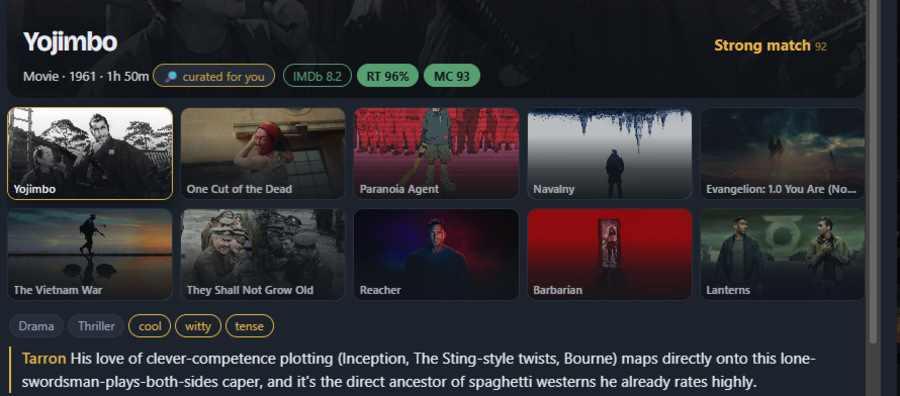
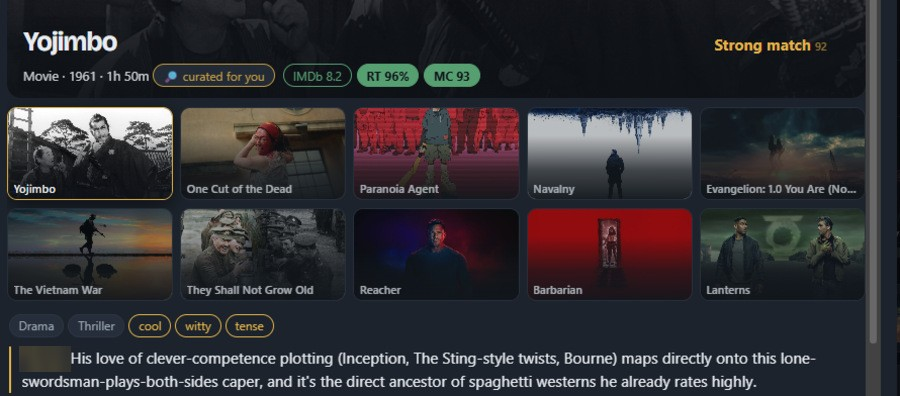
docs(writeup): accuracy fixes, two countries, and the owner's name blurred
Five accuracy fixes from the media-tracker session (four correct its own
brief's drafts, one corrects this session's added sentence):
- "All three models are Anthropic's Claude models" (six rows, three models).
- "Thinking harder did not help" (high minus low is -0.50, 95% range
  -1.01 to +0.01: likely worse, not proven).
- The newer mid-sized model was the best and cheapest line, "though its
  lead over the old one is small enough that chance could explain it"
  (+0.30, range -0.05 to +0.65).
- "I had never measured that" (not "Nobody had ever").
- The paragraph after the measures table: counting logic only, the
  tests are within three percent of the system's size and have been
  catching up all along (less than half in late August); the old "more
  checking than system" had mixed two counting methods.

From the owner (2026-09-29): "six people in two countries" (Antigua
and the US; the sixth joins in December), "some sixteen hundred
messages" kept (it is at least that), and his name blurred on the
recommendation screenshot (tracker-pick.jpg; the other two screenshots
show no account details).

diff --git a/docs/worked-examples/recommender.md b/docs/worked-examples/recommender.md
@@ -16,7 +16,7 @@ That single screen is the most useful thing that happened in this project, and e
 
 ## What I Built, and What I Did Not Do
 
-In August 2026 I built a media tracker for my family. It follows films, television, games and books across six people in four countries, tells you the day the thing you are waiting for actually arrives, and answers the question that ruins more evenings than any other: what should we watch tonight, for whoever happens to be in the room.
+In August 2026 I built a media tracker for my family. It follows films, television, games and books across six people in two countries, tells you the day the thing you are waiting for actually arrives, and answers the question that ruins more evenings than any other: what should we watch tonight, for whoever happens to be in the room.
 
 It has been in real use since August. It costs about seven and a half dollars a month to run, five for the hosting plan and about two and a half for the AI, plus about six cents each time it thinks hard about a recommendation.
 
@@ -35,7 +35,7 @@ I did not write any of it. Not a line. Across some sixteen hundred messages I ne
 | Design and rationale documents | About 7,900 lines, in 16 documents |
 | Lines of code I wrote | Zero |
 
-The row I want you to look at twice is not the last one. It is the pair in the middle. For most of this project there was more code checking the system than there was system. Today, counting only the logic and leaving out the code that draws the pictures and styles the pages, the two are within three percent of each other, and that closeness is not an accident of enthusiasm. It is the entire reason I am able to tell you anything about whether the thing works.
+The row I want you to look at twice is not the last one. It is the pair in the middle. Counting only the logic, and leaving out the code that draws the pictures and styles the pages, the code checking this system is now within three percent of the size of the system itself, and it has been catching up the whole way: in late August it was less than half. That is not an accident of enthusiasm. It is the entire reason I am able to tell you anything about whether the thing works.
 
 ## The Failures That Do Not Announce Themselves
 
@@ -163,11 +163,11 @@ So both were raced on the one instrument I do trust: 118 films and shows that ha
 | Opus 5.5, low | 3.50 of 5 | 9.43¢ | 1,378 | −0.60 (−0.97 to −0.23) |
 | Opus 5.5, high (estimate) | Not tested | About 12¢ (11 to 14¢) | About 2,700 | Not run |
 
-All six are Anthropic's Claude models. Prices are per pick, computed from the token counts returned with each call. The Sonnet 5 and Opus rows were run five days earlier, on the same titles with the same prompt code. Opus 5.5 at high effort was estimated rather than run, because high effort had not helped Sonnet. The whole effort race cost $1.88.
+All three models are Anthropic's Claude models. Prices are per pick, computed from the token counts returned with each call. The Sonnet 5 and Opus rows were run five days earlier, on the same titles with the same prompt code. Opus 5.5 at high effort was estimated rather than run, because high effort had not helped Sonnet. The whole effort race cost $1.88.
 
-Thinking harder made it worse. High effort never beat low effort in a single round, cost a fifth more, and took twice as long. The biggest model came last, at more than twice the price. The one change that helped was a newer version of the same mid-sized model, which was also the cheapest line in the table.
+Thinking harder did not help. High effort never beat low effort in a single round, cost a fifth more, and took twice as long. The biggest model came last, at more than twice the price. The best line in the table, and the cheapest, was simply the newer version of the same mid-sized model, though its lead over the old one is small enough that chance could explain it.
 
-The smaller finding mattered more to me than the table. Run twice on the same titles, the same model agrees on about four of its five picks. Nobody had ever measured that, and it means any gap of a few tenths is noise. Without that one number I would have read every difference in the table as a result.
+The smaller finding mattered more to me than the table. Run twice on the same titles, the same model agrees on about four of its five picks. I had never measured that, and it means any gap of a few tenths is noise. Without that one number I would have read every difference in the table as a result.
 
 ## What I Never Handed Over
 
